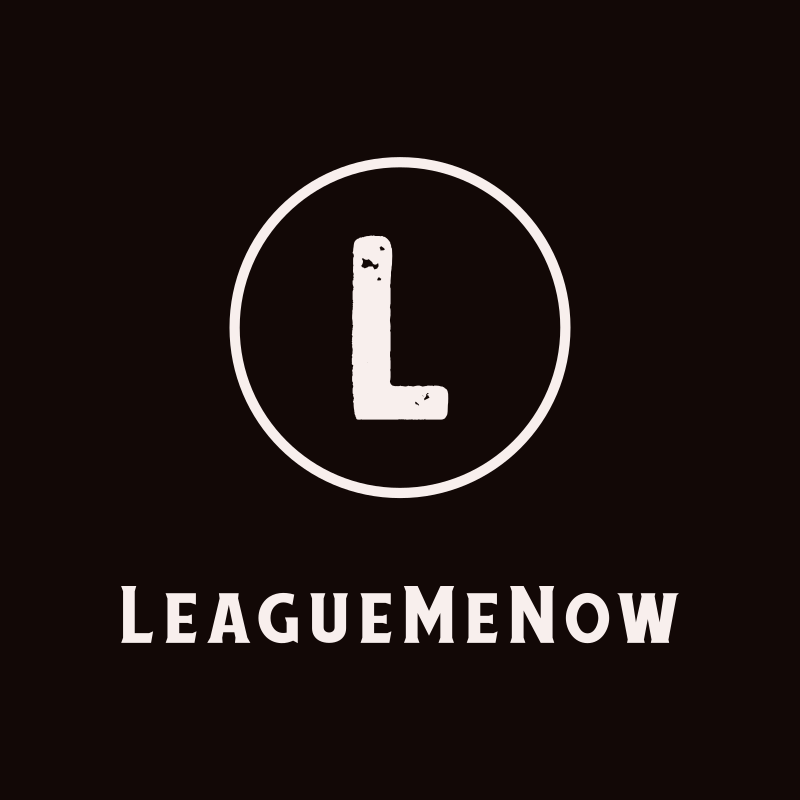
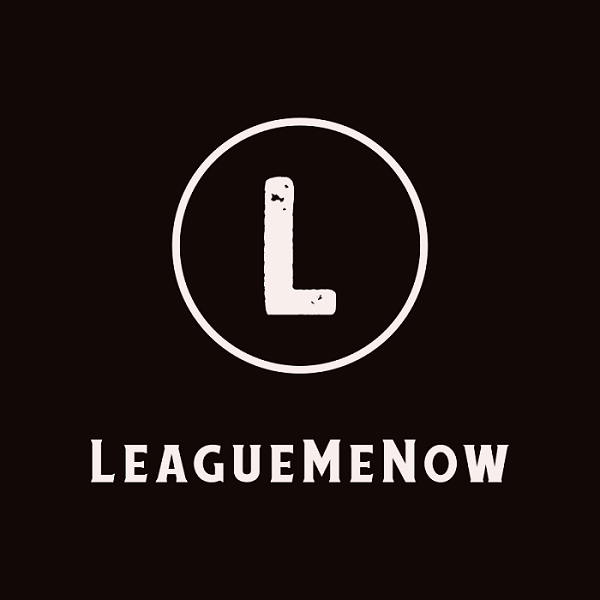
LogoMaker added

diff --git a/index.html b/index.html
@@ -87,7 +87,7 @@
                         <div class="portfolio-item mx-auto" data-toggle="modal" data-target="#portfolioModal2">
                             <div class="portfolio-item-caption d-flex align-items-center justify-content-center h-100 w-100">
                                 <div class="portfolio-item-caption-content text-center text-white"><i class="fas fa-plus fa-3x"></i></div>
-                            </div><img class="img-fluid" src="assets/img/portfolio/circus.png" alt="Circus Tent"/>
+                            </div><img class="img-fluid" src="assets/img/portfolio/LogoMaker.png" alt="Circus Tent"/>
                         </div>
                     </div>
                     <div class="col-md-6 col-lg-4 mb-5">
@@ -185,7 +185,7 @@
                                         <div class="divider-custom-icon"><i class="fas fa-star"></i></div>
                                         <div class="divider-custom-line"></div>
                                     </div>
-                                    <!-- Portfolio Modal - Image--><img class="img-fluid rounded mb-5" src="assets/img/portfolio/circus.png" alt="Circus Tent"/>
+                                    <!-- Portfolio Modal - Image--><img class="img-fluid rounded mb-5" src="assets/img/portfolio/LogoMaker.gif" alt="Circus Tent"/>
                                     <!-- Portfolio Modal - Text-->
                                     <p class="mb-5">Lorem ipsum dolor sit amet, consectetur adipisicing elit.Mollitia neque assumenda ipsam nihil, molestias magnam, recusandae quos quis inventore quisquam velit asperiores, vitae? Reprehenderit soluta, eos quod consequuntur itaque. Nam.</p>
                                     <button class="btn btn-primary" href="#" data-dismiss="modal"><i class="fas fa-times fa-fw"></i>Close Window</button>
